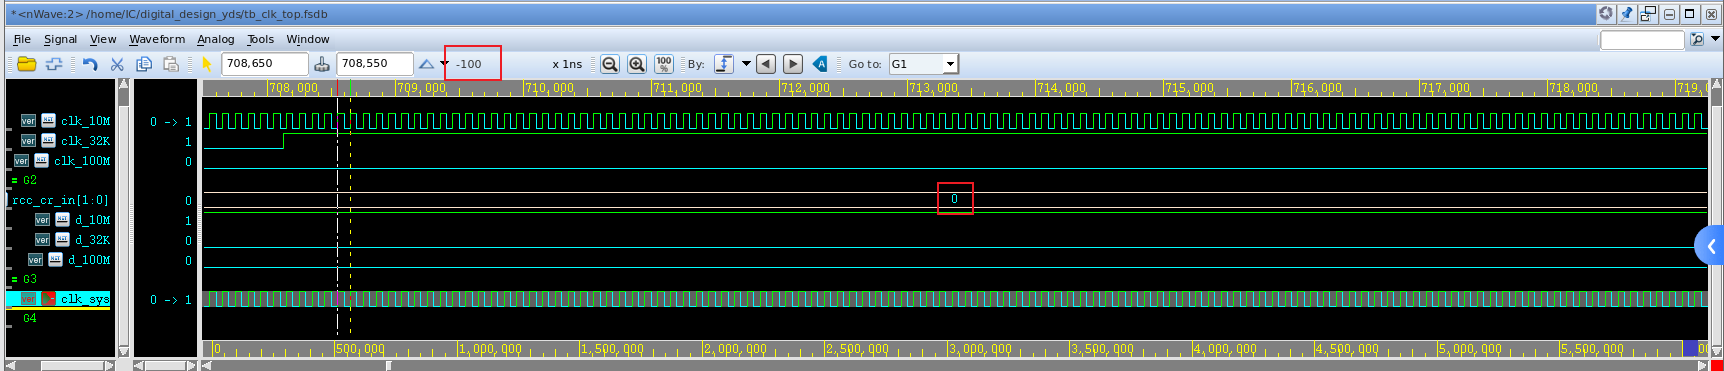
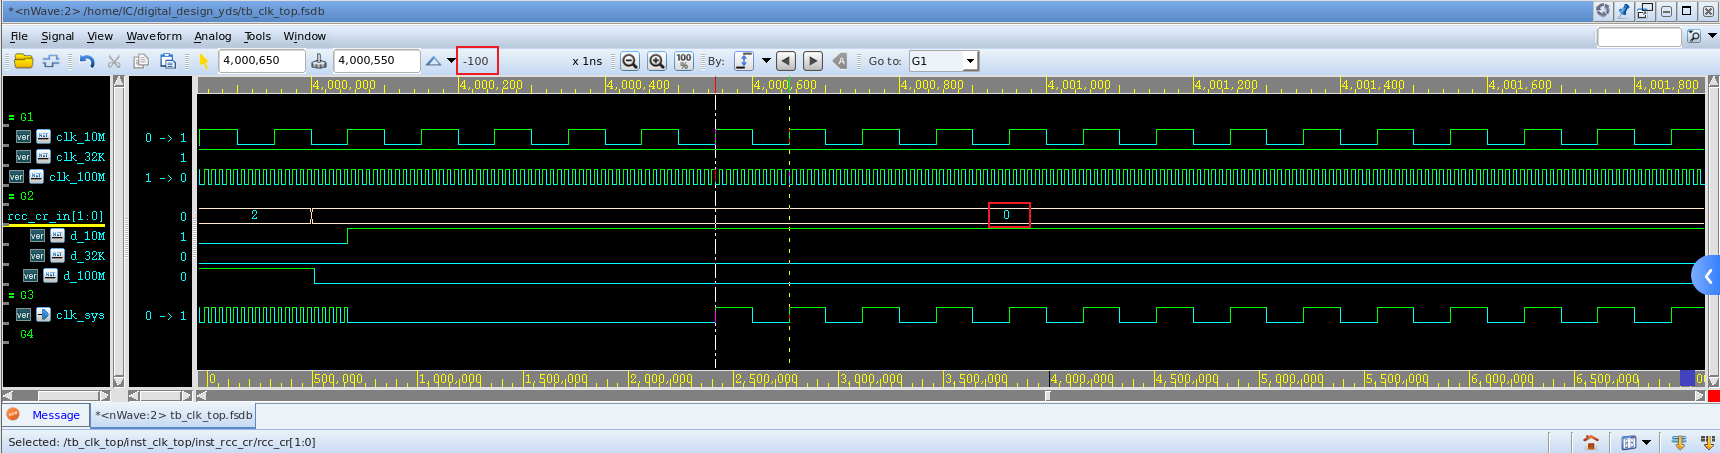
4th HW

diff --git a/HW4_1206/HW4.md b/HW4_1206/HW4.md
@@ -183,7 +183,9 @@ endmodule
 
 
 
-根据所选系统时钟将`rcc_cr_in`写入
+# rcc_cr
+
+产生`rcc_cr`信号
 
 ```verilog
 module rcc_cr (
@@ -193,13 +195,38 @@ module rcc_cr (
 
 	output reg [1:0] rcc_cr 
 );
-	
+	reg flag 	   ;
+	reg [15:0] cnt ;
+
+	always @(posedge clk_sys or negedge rst_n) begin
+		if (rst_n == 1'b0) begin
+			flag <= 1'b0 ;
+		end
+		else if (cnt == 16'd29_955) begin
+			flag <= 1'b1 ;
+		end
+	end
+
+	always @(posedge clk_sys or negedge rst_n) begin
+		if (rst_n == 1'b0) begin
+			cnt <= 16'b0000_0000_0000_0000 ;
+		end
+		else if (flag == 1'b0) begin
+			cnt <= cnt + 1'b1 ;
+		end
+	end
 	always @(posedge clk_sys or negedge rst_n) begin
 		if (rst_n == 1'b0) begin
 			rcc_cr <= 2'b00 ;
 		end
-		else begin
+		else if (flag == 1'b1) begin
 			rcc_cr <= rcc_cr_in ;
+		end else begin
+			if (cnt  == 16'd29_955) begin
+				rcc_cr <= 2'b10  ;
+			end else begin
+				rcc_cr <= rcc_cr ;
+			end
 		end
 	end
 
@@ -241,13 +268,13 @@ module tb_clk_top ();
 		);
 
 	task init();
-		rcc_cr_in <= 2'b00;
+		rcc_cr_in <= 2'b10;
 	endtask
 
 	task drive(int iter);
 		for(int it = 0; it < iter; it++) begin
 			rcc_cr_in <= it;
-			# 2000000;  // 2ms
+			# 1000000;  // 2ms
 		end
 	endtask
 
@@ -255,7 +282,8 @@ module tb_clk_top ();
 		// do something
 
 		init();
-		# 3000 		// 3us
+		# 4_000_000 		// 4ms
+
 		drive(3);
 
 		# 3000 
@@ -273,24 +301,37 @@ endmodule
 
 ```
 
-# waveform
+# waveform & analysis
+
+- 波形如图所示
 
 ![wave](images/wave.png)
 
-波形如图所示，`rcc_cr`为00时，`d_10M`为1，选择`clk_10M`；
+
+
+- 复位后，自动选择`clk_10M`，并开始计数，等待`clk_100M`时钟稳定
+
+![init](images/init.png)
+
+
+
+- `clk_100M`时钟稳定后，自动切换到`clk_100M`，之后计数停止，开始由`rcc_cr_in`控制时钟切换
+
+![auto_swith](images/auto_swith.png)
+
+
+
+- `rcc_cr`为00时，`d_10M`为1，选择`clk_10M`；
 
 ![10M](images/10M.png)
 
-`rcc_cr`为00时，`d_32K`为01，选择`clk_32K`；
+- `rcc_cr`为00时，`d_32K`为01，选择`clk_32K`；
 
 ![32K](images/32K.png)
 
-`rcc_cr`为10时，`d_100M`为1，选择`clk_100M`。
+- `rcc_cr`为10时，`d_100M`为1，选择`clk_100M`。
 
 ![100M](images/100M.png)
 
+![100M_zoom](images/100M_zoom.png)
 
-
-更改`Testbench`，可见初始选择`clk_10M`
-
-![init](images/init.png)
